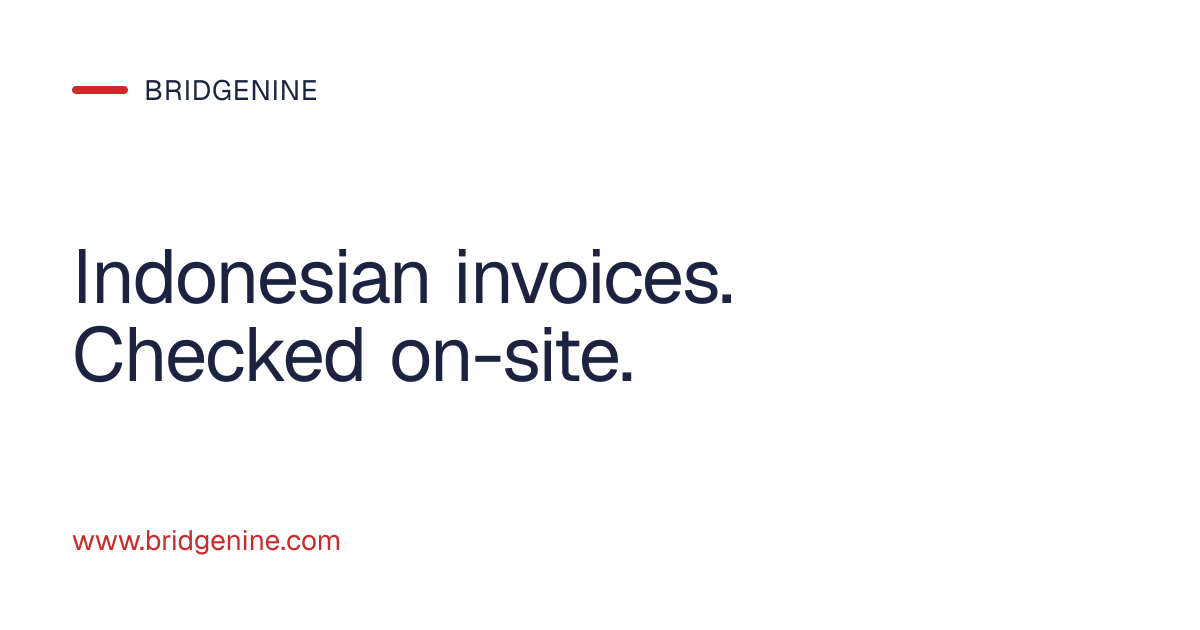
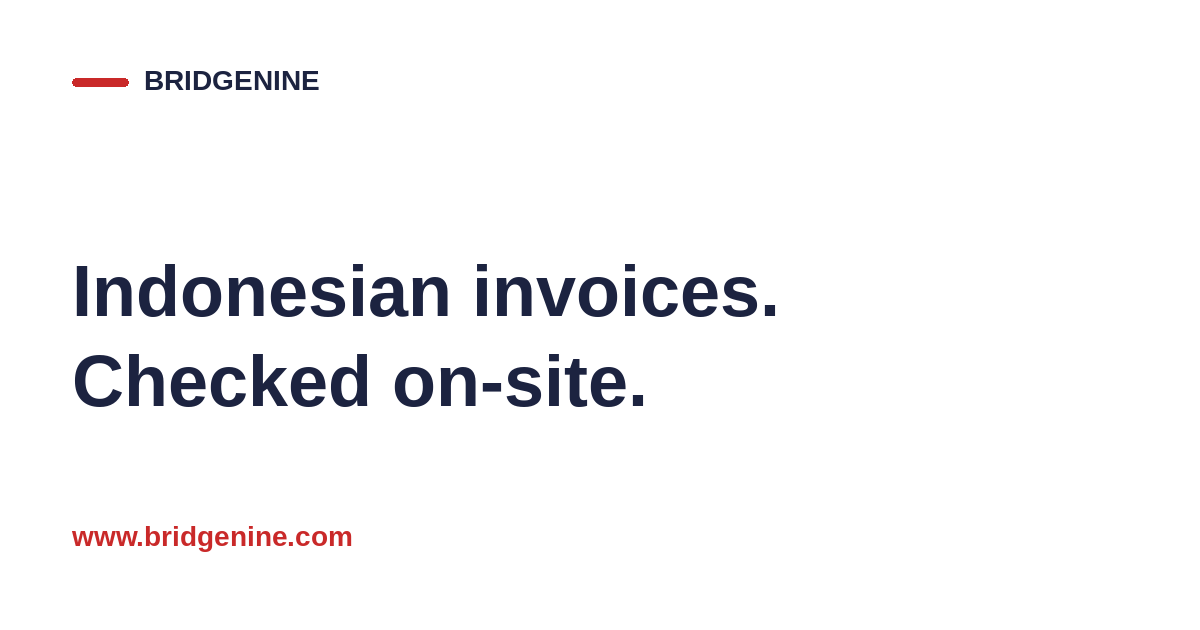
Match the palette to the jacket reference.
Use the photo's brightest red and a crisp white page, with navy text. Red and navy stay small accents.

Changed region(s): [[0.0617, 0.3921, 0.6475, 0.6635], [0.0617, 0.0905, 0.2775, 0.181], [0.0617, 0.8444, 0.3083, 0.8746]]

diff --git a/app/globals.css b/app/globals.css
@@ -1,22 +1,22 @@
 @import "tailwindcss";
 
 /*
-  Palette
-  - White #FFFFFF and off-white #F7F5F2 are the page.
-  - Red #C92B2A is the most saturated red sampled from the reference photo.
-  - Navy #1C2340 is the deep text color. Photo shadows read near-black, so
-    this is the specified navy rather than a zipper sample.
-  Red and navy are accents: buttons, short rules, icons, underlines.
+  Palette sampled from the jacket reference.
+  - White #FFFFFF. The cloth reads as crisp white, about #FEFEFE.
+  - Red #C92929 is the brightest red in the photo (shoulder panels).
+  - Navy #1C2340 is the deep text color. The photo's side panels fall in
+    shadow and read near-black, so the navy is the specified deep navy.
+  Red and navy are accents only: buttons, short rules, icons, underlines.
 */
 
 @theme inline {
   --color-white: #ffffff;
-  --color-paper: #f7f5f2;
+  --color-paper: #f6f7f9;
   --color-ink: #1c2340;
-  --color-ink-soft: #3e4868;
-  --color-line: #e7e2da;
-  --color-red: #c92b2a;
-  --color-red-deep: #a32221;
+  --color-ink-soft: #3d4668;
+  --color-line: #e2e5ee;
+  --color-red: #c92929;
+  --color-red-deep: #a52222;
   --color-navy: #1c2340;
   --font-sans: var(--font-outfit), ui-sans-serif, system-ui, sans-serif;
   --font-display: var(--font-syne), ui-sans-serif, system-ui, sans-serif;
@@ -48,12 +48,12 @@ h3 {
 }
 
 ::selection {
-  background: #f6d4d3;
+  background: #f6d4d4;
   color: #1c2340;
 }
 
 :focus-visible {
-  outline: 2px solid #c92b2a;
+  outline: 2px solid #c92929;
   outline-offset: 3px;
 }
 

diff --git a/README.md b/README.md
@@ -20,11 +20,11 @@ Colors are defined in `app/globals.css`:
 | Token | Hex | Use |
 | --- | --- | --- |
 | White | `#FFFFFF` | Page background |
-| Paper | `#F7F5F2` | Quiet bands |
-| Red | `#C92B2A` | Buttons, short rules, active language, errors |
+| Paper | `#F6F7F9` | Quiet bands |
+| Red | `#C92929` | Buttons, short rules, active language, errors |
 | Navy | `#1C2340` | Text, logo, lines |
 
-Red `#C92B2A` is the most saturated red sampled from the owner’s reference photo. Navy is the specified deep navy. Red and navy stay small accents on a white page.
+Red `#C92929` is the brightest red in the reference photo. Navy is the deep navy used for text. Red and navy stay small accents on a white page.
 
 The logo in the header is a placeholder wordmark plus a simple bridge SVG (`components/logo.tsx`, `public/logo.svg`, `app/icon.svg`). Replace those files when a final logo exists.
 
